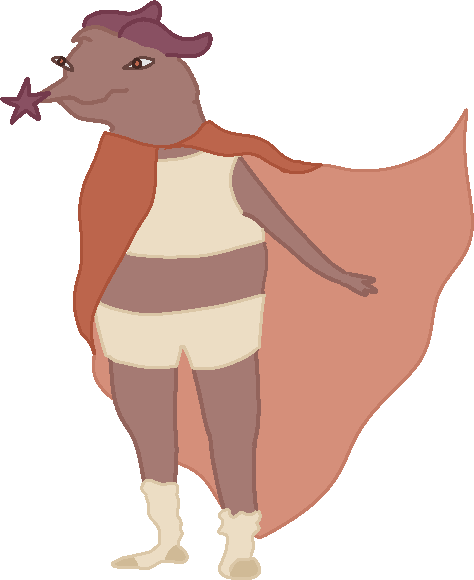
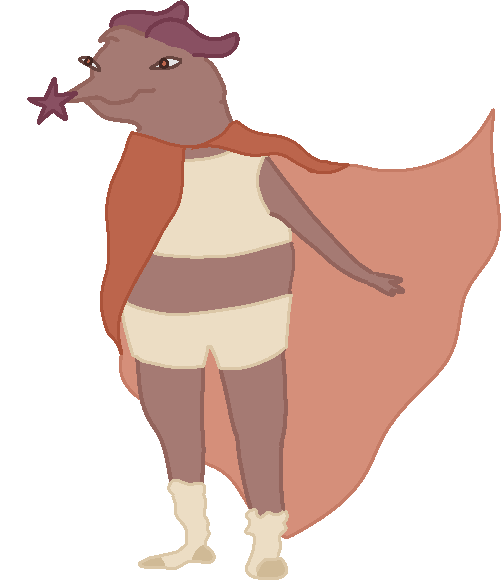
Adjust image cropping, add dressup functionality

diff --git a/src/components/PlayerCustom/PlayerCustomization.js b/src/components/PlayerCustom/PlayerCustomization.js
@@ -1,4 +1,4 @@
-import { PLAYER_IMAGES_BASE_PATH } from "../../utils/ratDataHelper";
+import { DRESSER_IMAGES_BASE_PATH } from "../../utils/ratDataHelper";
 import React from "react";
 import customData from "../../data/playerCustomization.json";
 
@@ -6,7 +6,7 @@ import "./PlayerCustomization.css";
 import { MobileControl } from "../MobileControl/MobileControl";
 
 export function PlayerCustomization(props) {
-  const playerImg = `${PLAYER_IMAGES_BASE_PATH}/${props.playerAvatarIndex}_fullbody.png`;
+  const playerImg = `${DRESSER_IMAGES_BASE_PATH}/${props.playerAvatarIndex}.png`;
   const images = customData[props.playerAvatarIndex];
 
   function toggleDecoration(decoration) {
@@ -43,35 +43,57 @@ export function PlayerCustomization(props) {
 
   const onwardsButton = (
     <button className="small onwards" onClick={props.advanceToNextStage}>
-      Continue onwards →
+      Onwards →
     </button>
   );
+  const onPrevious = () => {
+    props.setPlayerAvatarDecorations([]);
+    props.goToPlayerSelect();
+  };
   const previousButton = (
-    <button className="small back" onClick={props.goToPlayerSelect}>
-      ← Back to player selection
+    <button className="small back" onClick={onPrevious}>
+      ← Back
     </button>
+  );
+  const unSelectedDecorations = images.filter(
+    (image) => !props.playerAvatarDecorations.includes(image)
   );
   return (
     <>
       <div className="player-customization-screen screen">
-        <header>
-          <h2>Dress up your character? </h2>
-        </header>
+        <MobileControl show={false}>
+          <header>
+            {previousButton}
+            <h2>Dress up your character? </h2>
+            {onwardsButton}
+          </header>
+        </MobileControl>
         <div className="custom-game">
           <div className="custom-character">
+            <img
+              className="background"
+              src={`${DRESSER_IMAGES_BASE_PATH}/dressing_room.png`}
+              alt="A dressing room with accessories in it"
+            />
             <img src={playerImg} />
             {props.playerAvatarDecorations.map((decorationImage) => (
               <img
                 className="decoration"
                 key={decorationImage}
-                src={`${PLAYER_IMAGES_BASE_PATH}/${props.playerAvatarIndex}_${decorationImage}.png`}
+                src={`${DRESSER_IMAGES_BASE_PATH}/${props.playerAvatarIndex}_${decorationImage}_on.png`}
+                alt=""
+              />
+            ))}
+            {unSelectedDecorations.map((decorationImage) => (
+              <img
+                className="decoration"
+                key={decorationImage}
+                src={`${DRESSER_IMAGES_BASE_PATH}/${props.playerAvatarIndex}_${decorationImage}.png`}
                 alt=""
               />
             ))}
           </div>
-          <MobileControl show={false}>{previousButton}</MobileControl>
-          <MobileControl show={false}>{onwardsButton}</MobileControl>
-          <MobileControl show={false}>{options}</MobileControl>
+          {options}
         </div>
       </div>
       <MobileControl
@@ -84,7 +106,7 @@ export function PlayerCustomization(props) {
           </>
         }
       >
-        {options}
+        Dress up your character?
       </MobileControl>
     </>
   );

diff --git a/src/components/PlayerCustom/PlayerCustomization.css b/src/components/PlayerCustom/PlayerCustomization.css
@@ -17,11 +17,16 @@
   column-gap: 20px;
   background-color: var(--secondary-background-color);
   border-bottom: 3px solid var(--text-color);
+  justify-content: space-between;
+  padding: 0px 12px;
 }
 
-.custom-character {
-  position: relative;
+.custom-character,
+.custom-character img {
+  position: absolute;
+  width: 100%;
   height: 100%;
+  inset: 0;
 }
 
 .custom-character img {
@@ -38,10 +43,15 @@
 
 ul.player-custom-options {
   display: flex;
-  flex-direction: column;
   row-gap: 16px;
   column-gap: 8px;
   padding: 0;
+  z-index: 1;
+  position: absolute;
+  width: 100%;
+  justify-content: center;
+  bottom: 12px;
+  left: 0;
 }
 
 ul.player-custom-options li {
@@ -52,18 +62,6 @@ ul.player-custom-options button.small.selected {
   background-color: var(--button-outline-color);
   color: var(--button-color);
   border: 2px solid var(--button-color);
-}
-
-.player-customization-screen .onwards {
-  position: absolute;
-  bottom: 24px;
-  right: 24px;
-}
-
-.player-customization-screen .back {
-  position: absolute;
-  bottom: 24px;
-  left: 24px;
 }
 
 @media only screen and (hover: none) {

diff --git a/src/utils/ratDataHelper.js b/src/utils/ratDataHelper.js
@@ -8,6 +8,9 @@ import epilogueJson from "../data/epilogue.json";
 export const PLAYER_IMAGES_BASE_PATH = `${process.env.PUBLIC_URL}/images/player`;
 
 /** TODO */
+export const DRESSER_IMAGES_BASE_PATH = `${process.env.PUBLIC_URL}/images/dresser`;
+
+/** TODO */
 export const FRAMES_IMAGES_BASE_PATH = `${process.env.PUBLIC_URL}/images/frames`;
 
 /** TODO */

diff --git a/src/index.css b/src/index.css
@@ -206,6 +206,8 @@ h3 {
   /** The only iframe on the page should be the kofi widget. */
   iframe,
   .floatingchat-container,
+  .floatingchat-container-wrap,
+  .floatingchat-container-wrap-mobi,
   .not-on-mobile {
     display: none;
   }
